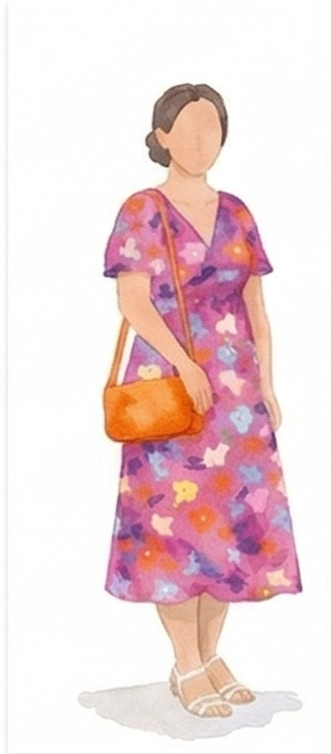
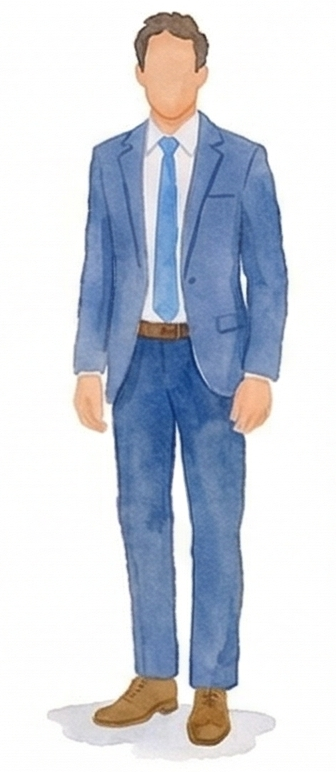
some update

diff --git a/src/components/GiftCarousel.tsx b/src/components/GiftCarousel.tsx
@@ -1,64 +1,32 @@
 import { useRef, useEffect, useState } from "react";
+import { useQuery } from "@tanstack/react-query";
 import { ChevronLeft, ChevronRight, Gift } from "lucide-react";
-import giftDinner from "@/assets/gift-dinner.jpg";
-import giftHoneymoon from "@/assets/gift-honeymoon.jpg";
-import giftBedding from "@/assets/gift-bedding.jpg";
-import giftDinnerware from "@/assets/gift-dinnerware.jpg";
-import giftMixer from "@/assets/gift-mixer.jpg";
-import giftSpa from "@/assets/gift-spa.jpg";
-import giftWine from "@/assets/gift-wine.jpg";
 
-const gifts = [
-  {
-    image: giftDinner,
-    name: "Jantar Romântico",
-    description: "Uma noite inesquecível a dois em restaurante especial, com menu degustação completo.",
-    price: "R$ 450,00",
-  },
-  {
-    image: giftHoneymoon,
-    name: "Lua de Mel",
-    description: "Contribua para a viagem dos nossos sonhos e ajude a tornar essa memória ainda mais especial.",
-    price: "R$ 500,00",
-  },
-  {
-    image: giftBedding,
-    name: "Jogo de Cama Premium",
-    description: "Roupa de cama de linho egípcio para tornar cada manhã mais aconchegante e sofisticada.",
-    price: "R$ 380,00",
-  },
-  {
-    image: giftDinnerware,
-    name: "Aparelho de Jantar",
-    description: "Conjunto de porcelana fina com detalhes florais para os momentos especiais a dois.",
-    price: "R$ 520,00",
-  },
-  {
-    image: giftMixer,
-    name: "Batedeira Artisan",
-    description: "A famosa batedeira Rose Gold para transformar a cozinha em um ateliê de sabores.",
-    price: "R$ 890,00",
-  },
-  {
-    image: giftSpa,
-    name: "Dia de Spa",
-    description: "Presenteie com uma experiência de bem-estar e relaxamento total para o casal.",
-    price: "R$ 320,00",
-  },
-  {
-    image: giftWine,
-    name: "Kit de Vinhos",
-    description: "Seleção especial de vinhos finos e taças de cristal para os momentos de celebração.",
-    price: "R$ 290,00",
-  },
-];
+interface GiftItem {
+  id: string;
+  name: string;
+  image: string | null;
+  amazonLink: string | null;
+  price: number;
+}
 
+const fetchGifts = async (): Promise<GiftItem[]> => {
+  const res = await fetch(`${import.meta.env.URL_API}/gifts`);
+  if (!res.ok) throw new Error("Erro ao buscar presentes");
+  const json = await res.json();
+  return json.data;
+};
 export const GiftCarousel = () => {
   const trackRef = useRef<HTMLDivElement>(null);
   const sectionRef = useRef<HTMLDivElement>(null);
   const [canScrollLeft, setCanScrollLeft] = useState(false);
   const [canScrollRight, setCanScrollRight] = useState(true);
   const [visible, setVisible] = useState(false);
+
+  const { data: gifts = [], isLoading, isError } = useQuery({
+    queryKey: ["gifts"],
+    queryFn: fetchGifts,
+  });
 
   const checkScroll = () => {
     const el = trackRef.current;
@@ -74,7 +42,7 @@ export const GiftCarousel = () => {
       checkScroll();
       return () => el.removeEventListener("scroll", checkScroll);
     }
-  }, []);
+  }, [gifts]);
 
   useEffect(() => {
     const obs = new IntersectionObserver(
@@ -132,13 +100,19 @@ export const GiftCarousel = () => {
           </button>
 
           {/* Track */}
-          <div
-            ref={trackRef}
-            className="carousel-track px-4 md:px-8"
-          >
-            {gifts.map((gift, i) => (
-              <GiftCard key={i} gift={gift} index={i} visible={visible} />
-            ))}
+          <div ref={trackRef} className="carousel-track px-4 md:px-8">
+            {isError && (
+              <p className="font-body text-sm text-muted-foreground px-2">
+                Não foi possível carregar a lista de presentes.
+              </p>
+            )}
+            {isLoading
+              ? Array.from({ length: 4 }).map((_, i) => (
+                  <SkeletonCard key={i} />
+                ))
+              : gifts.map((gift, i) => (
+                  <GiftCard key={i} gift={gift} index={i} visible={visible} />
+                ))}
           </div>
 
           {/* Right arrow */}
@@ -161,12 +135,26 @@ export const GiftCarousel = () => {
   );
 };
 
+const SkeletonCard = () => (
+  <div className="w-64 md:w-72 bg-card rounded-2xl overflow-hidden shadow-card flex flex-col animate-pulse">
+    <div className="h-48 bg-muted" />
+    <div className="p-5 flex flex-col gap-3">
+      <div className="h-5 bg-muted rounded w-3/4" />
+      <div className="h-8 bg-muted rounded w-full" />
+      <div className="flex items-center justify-between mt-2">
+        <div className="h-5 bg-muted rounded w-1/3" />
+        <div className="h-8 bg-muted rounded-full w-24" />
+      </div>
+    </div>
+  </div>
+);
+
 const GiftCard = ({
   gift,
   index,
   visible,
 }: {
-  gift: (typeof gifts)[0];
+  gift: GiftItem;
   index: number;
   visible: boolean;
 }) => {
@@ -182,29 +170,35 @@ const GiftCard = ({
     >
       {/* Image */}
       <div className="relative overflow-hidden h-48">
-        <img
-          src={gift.image}
-          alt={gift.name}
-          className="w-full h-full object-cover transition-transform duration-700 group-hover:scale-105"
-        />
+        {gift.image && (
+          <img
+            src={gift.image}
+            alt={gift.name}
+            className="w-full h-full object-cover transition-transform duration-700 group-hover:scale-105"
+          />
+        )}
         <div className="absolute inset-0 bg-gradient-to-t from-black/20 to-transparent" />
       </div>
 
       {/* Body */}
       <div className="p-5 flex flex-col flex-1">
-        <h3 className="font-display text-xl text-charcoal font-medium mb-1">
+        <h3 className="font-display text-xl text-charcoal font-medium mb-4">
           {gift.name}
         </h3>
-        <p className="font-body text-sm text-muted-foreground leading-relaxed mb-4 flex-1">
-          {gift.description}
-        </p>
         <div className="flex items-center justify-between mt-auto">
           <span className="font-display text-lg font-semibold text-[hsl(var(--rosé))]">
-            {gift.price}
+            {gift.price.toLocaleString("pt-BR", { style: "currency", currency: "BRL" })}
           </span>
-          <button className="px-4 py-2 bg-[hsl(var(--rosé))] text-[hsl(var(--primary-foreground))] text-xs font-body tracking-wider uppercase rounded-full hover:bg-[hsl(182,20%,58%)] transition-colors duration-200 shadow-soft">
-            Presentear
-          </button>
+          {gift.amazonLink && (
+            <a
+              href={gift.amazonLink}
+              target="_blank"
+              rel="noopener noreferrer"
+              className="px-4 py-2 bg-[hsl(var(--rosé))] text-[hsl(var(--primary-foreground))] text-xs font-body tracking-wider uppercase rounded-full hover:bg-[hsl(182,20%,58%)] transition-colors duration-200 shadow-soft"
+            >
+              Presentear
+            </a>
+          )}
         </div>
       </div>
     </div>

diff --git a/src/components/WeddingInfo.tsx b/src/components/WeddingInfo.tsx
@@ -56,10 +56,17 @@ export const WeddingInfo = () => {
       <img
         src={weddingPlace}
         alt="Local do casamento — Casa Vilella"
-        className="absolute inset-0 w-full h-full object-cover object-center"
+        className="absolute inset-0 w-full h-full object-cover"
+        style={{ objectPosition: "center top" }}
       />
-      {/* White gradient overlay — right side only, above photo, below content */}
-      <div className="absolute right-0 inset-y-0 w-[60%] bg-gradient-to-r from-transparent to-black/70 z-[1]" />
+      {/* Gradient overlay — top to bottom */}
+      <div
+        className="absolute inset-0 z-[1]"
+        style={{
+          background:
+            "linear-gradient(to bottom, rgba(255,255,255,0.6) 0%, rgba(180,210,200,0.75) 100%)",
+        }}
+      />
 
       <div className="relative z-10 container mx-auto px-4 max-w-5xl">
         <div className="flex justify-end">
@@ -74,23 +81,23 @@ export const WeddingInfo = () => {
                 className="mx-auto mb-4 drop-shadow-sm text-[hsl(var(--rosé-light))] fill-[hsl(var(--rosé-light))]"
               />
               <h2
-                className="font-display text-4xl md:text-5xl text-white font-light mb-4"
+                className="font-display text-4xl md:text-5xl text-charcoal font-light mb-4"
               >
                 Informações do{" "}
-                <span className="italic text-[hsl(var(--rosé-light))]">Casamento</span>
+                <span className="italic text-[hsl(var(--rosé))]">Casamento</span>
               </h2>
               <div className="flex items-center justify-center gap-4 mb-6">
-                <div className="h-px w-14 bg-white/40" />
+                <div className="h-px w-14 bg-charcoal/30" />
                 <img
                   src={faLogo}
                   alt=""
-                  className="h-[5.5rem] md:h-24 w-auto max-w-[min(320px,80vw)] object-contain brightness-0 invert opacity-90 drop-shadow-sm"
+                  className="h-[5.5rem] md:h-24 w-auto max-w-[min(320px,80vw)] object-contain opacity-90 drop-shadow-sm"
                   aria-hidden
                 />
-                <div className="h-px w-14 bg-white/40" />
+                <div className="h-px w-14 bg-charcoal/30" />
               </div>
               <p
-                className="font-body text-white/85 leading-relaxed"
+                className="font-body text-charcoal/80 leading-relaxed"
               >
                 Sua presença é muito importante para nós. Será uma alegria
                 compartilhar esse momento tão especial ao seu lado.
@@ -163,7 +170,7 @@ export const WeddingInfo = () => {
                 href={MAPS_URL}
                 target="_blank"
                 rel="noopener noreferrer"
-                className="inline-flex items-center gap-2 px-7 py-3 rounded-full border-2 border-white/80 text-white font-body text-sm tracking-widest uppercase hover:bg-white hover:text-[hsl(var(--rosé))] transition-all duration-300 shadow-soft hover:shadow-card"
+                className="inline-flex items-center gap-2 px-7 py-3 rounded-full border-2 border-white/30 bg-white/20 backdrop-blur-sm text-white font-body text-sm tracking-widest uppercase hover:bg-white hover:text-[hsl(var(--rosé))] transition-all duration-300 shadow-soft hover:shadow-card"
               >
                 <MapPin size={15} />
                 Ver no Mapa

diff --git a/src/vite-env.d.ts b/src/vite-env.d.ts
@@ -1,5 +1,13 @@
 /// <reference types="vite/client" />
 
+interface ImportMetaEnv {
+  readonly URL_API: string;
+}
+
+interface ImportMeta {
+  readonly env: ImportMetaEnv;
+}
+
 declare module "*.PNG" {
   const src: string;
   export default src;

diff --git a/src/components/DressCarousel.tsx b/src/components/DressCarousel.tsx
@@ -1,19 +1,17 @@
 import { useRef, useEffect, useState } from "react";
 import { ChevronLeft, ChevronRight } from "lucide-react";
 import foto1 from "@/assets/f&a_traje_exemplo/foto1.png";
-import foto2 from "@/assets/f&a_traje_exemplo/foto2.png";
 import foto3 from "@/assets/f&a_traje_exemplo/foto3.png";
 import foto4 from "@/assets/f&a_traje_exemplo/foto4.png";
 import foto5 from "@/assets/f&a_traje_exemplo/foto5.png";
 import foto6 from "@/assets/f&a_traje_exemplo/foto6.png";
 import foto7 from "@/assets/f&a_traje_exemplo/foto7.png";
-import foto8 from "@/assets/f&a_traje_exemplo/foto8.png";
 import foto9 from "@/assets/f&a_traje_exemplo/foto9.png";
 import foto10 from "@/assets/f&a_traje_exemplo/foto10.png";
 import foto11 from "@/assets/f&a_traje_exemplo/foto11.png";
 import foto12 from "@/assets/f&a_traje_exemplo/foto12.png";
 
-const photos = [foto1, foto2, foto3, foto4, foto5, foto6, foto7, foto8, foto9, foto10, foto11, foto12];
+const photos = [foto1, foto3, foto4, foto5, foto6, foto7, foto9, foto10, foto11, foto12];
 
 const cores = [
   "#E07B39", "#7BAE5A", "#E8C84A", "#5B9BD5",

diff --git a/vite.config.ts b/vite.config.ts
@@ -8,6 +8,7 @@ export default defineConfig(({ mode }) => ({
   base: mode === "production" ? "/fawedding/" : "/",
 
   assetsInclude: ["**/*.PNG"],
+  envPrefix: "URL_API",
   server: {
     host: "::",
     port: 8080,